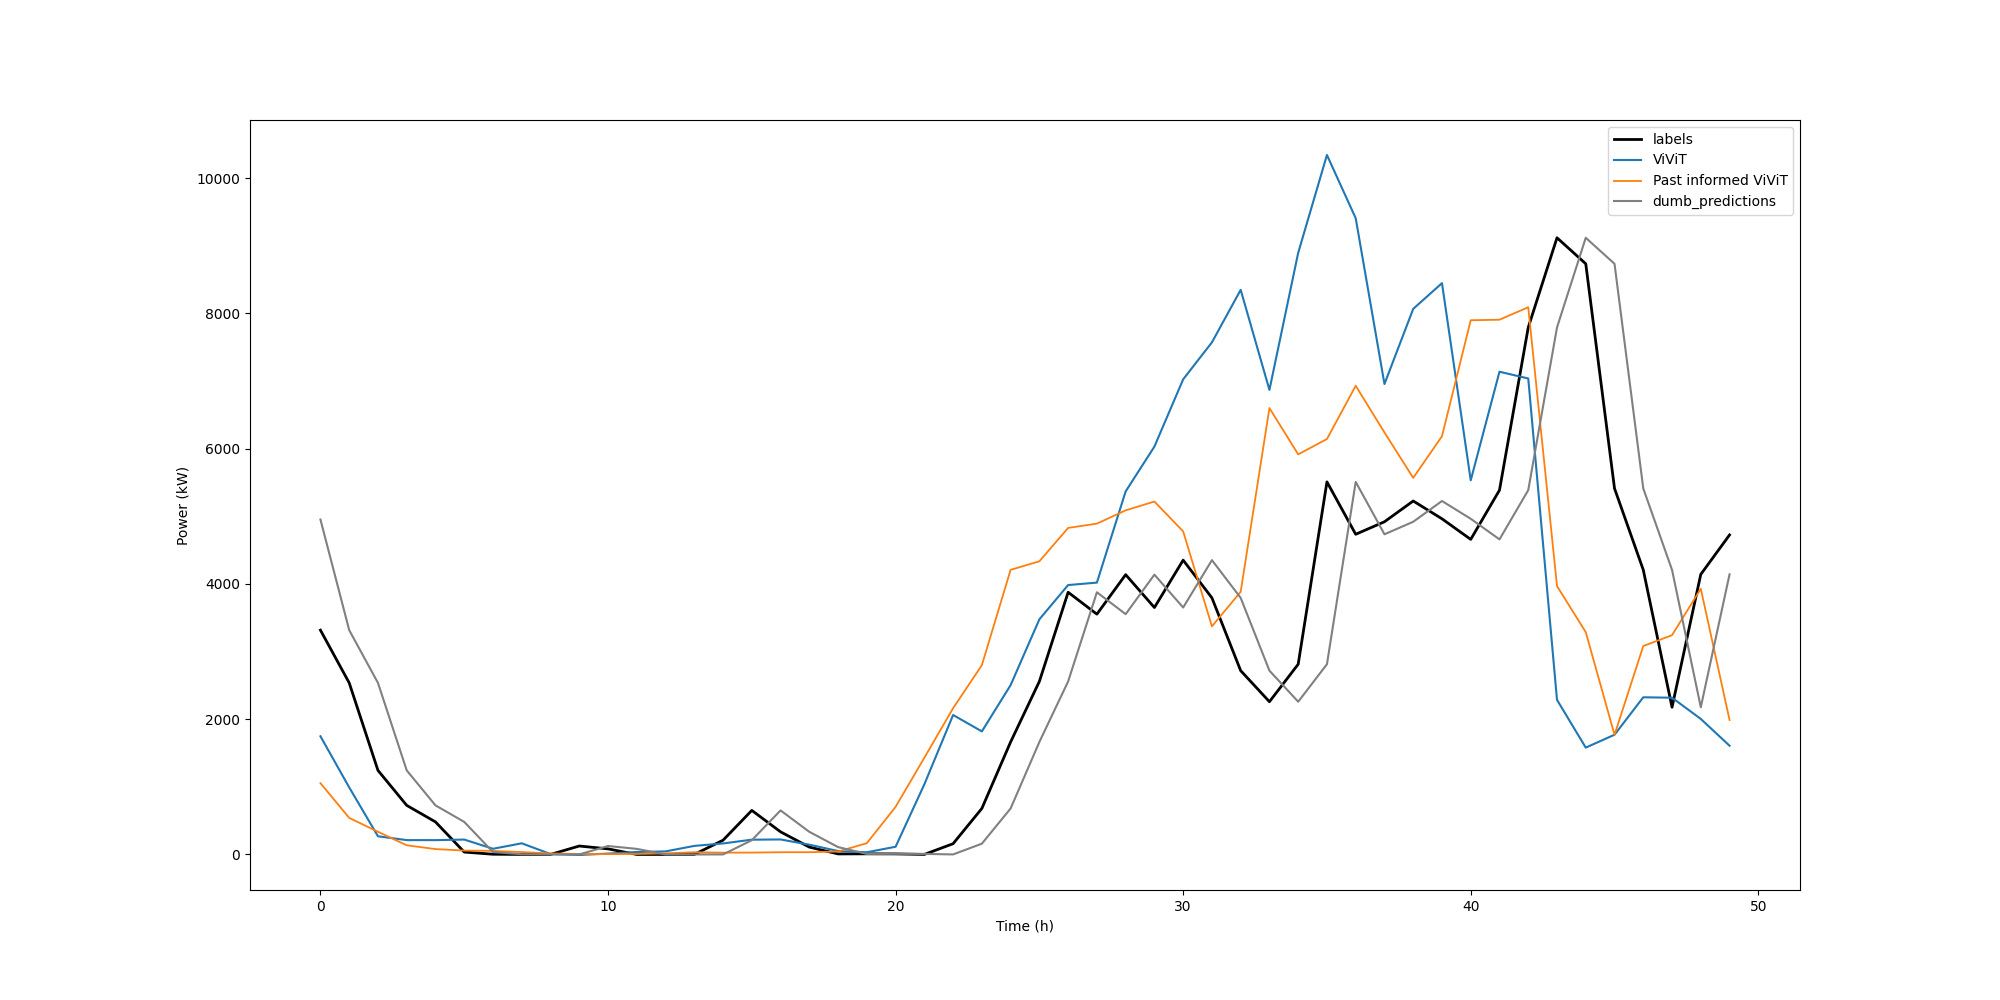
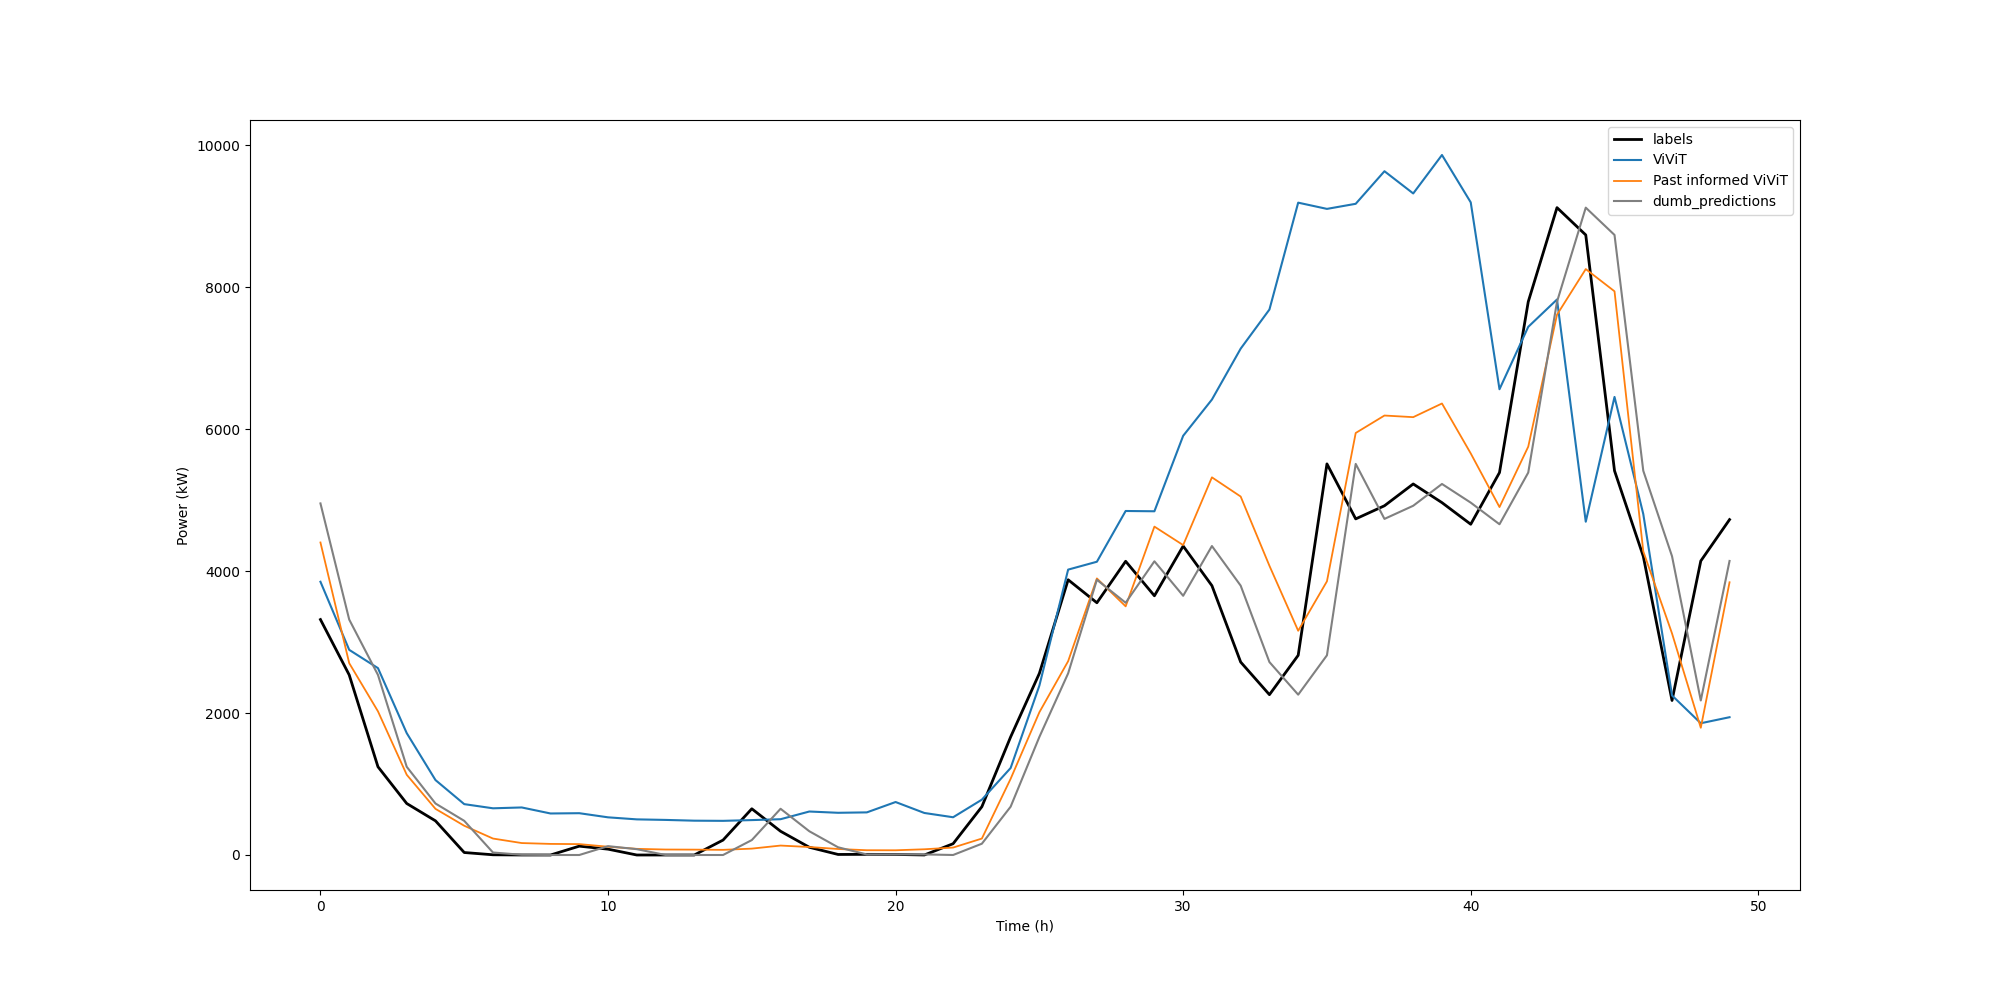
Video vision transformer

diff --git a/arena/video_vision_transformer/train_past_label_informed_vivit.py b/arena/video_vision_transformer/train_past_label_informed_vivit.py
@@ -30,15 +30,15 @@ NUM_FRAMES = 4 # look 4 hours to the past
 OVERLAP_SIZE = 3 #number of overlaping frames
 
 BATCH_SIZE = 64
-EPOCHS = 150
+EPOCHS = 100
 LEARNING_RATE = 0.0001
 
 IMAGE_SIZE = 9 
 PATCH_SIZE = 3
 CHANNELS = 8+1 # 8 channels + 1 previous label channel
 DIM = 64
-DEPTH = 2       # number of transformer blocks
-HEADS = 2
+DEPTH = 4       # number of transformer blocks
+HEADS = 4
 
 #_________________________DATA OF INTEREST_____________________________
 coordinates_of_interest = ['prediction date']
@@ -53,7 +53,7 @@ channels = ['10u', '10v', '2t', 'sp', '100u', '100v', 'vel10_', 'vel100']
 #______________DATA________________
 
 # ask the user if he wants to create the train and test sets or load them from disk
-answer = input('Do you want to create the IMAGE train and test sets? (y/n)')
+answer = input('Do you want to create the VIDEO train and test sets? (y/n)')
 
 if answer == 'y':
 
@@ -94,33 +94,16 @@ if answer == 'y':
     test_data[0, -1, :, :] = trainset[-1][1]
     testset = torch.utils.data.TensorDataset(test_data, test_labels)
 
-    # create the directory if it doesn't exist
-    if not os.path.exists('./past_informed_images'):
-        os.makedirs('./past_informed_images')
+    # add last NUM_FRAMES frames of the trainset to the beggining of the testset
+    test_data = torch.cat((data[-NUM_FRAMES+1:], test_data), dim=0)
+    test_labels = torch.cat((labels[-NUM_FRAMES+1:], test_labels), dim=0)
     
-    # save in disk
-    torch.save(trainset, './past_informed_images/trainset.pt')
-    torch.save(testset, './past_informed_images/testset.pt')
+    testset = torch.utils.data.TensorDataset(test_data, test_labels)
 
-else:
-    # load the train and test sets from disk
-    trainset = torch.load('./past_informed_images/trainset.pt')
-    testset = torch.load('./past_informed_images/testset.pt')
+    trainloader = DataLoader(trainset, batch_size=1, shuffle=False)
+    testloader = DataLoader(testset, batch_size=1, shuffle=False)
 
-print('Size of images trainset: {}'.format(len(trainset)))
-print('Size of images testset: {}'.format(len(testset)))
-print('')
-
-trainloader = DataLoader(trainset, batch_size=1, shuffle=False)
-testloader = DataLoader(testset, batch_size=1, shuffle=False)
-
-# OVERLAPPING VIDEO DATA
-# ask the user if he wants to create the train and test sets or load them from disk
-answer = input('Do you want to create the overlap VIDEO train and test sets? (y/n)')
-if answer == 'y':
-    
     video_trainset = utils.create_video_dataset(trainloader, NUM_FRAMES, OVERLAP_SIZE)
-    print('Size of video trainset: {}'.format(len(video_trainset)))
     video_testset = utils.create_video_dataset(testloader, NUM_FRAMES, OVERLAP_SIZE)
 
     # create the directory if it doesn't exist
@@ -131,17 +114,14 @@ if answer == 'y':
     torch.save(video_trainset, './past_informed_videos/video_trainset.pt')
     torch.save(video_testset, './past_informed_videos/video_testset.pt')
 
-else:
-    # load the train and test sets from disk
-    video_trainset = torch.load('./past_informed_videos/video_trainset.pt')
-    video_testset = torch.load('./past_informed_videos/video_testset.pt')
 
 video_trainloader = DataLoader(video_trainset, batch_size=BATCH_SIZE, shuffle=False)
-print('Len of video_trainloader:', len(video_trainloader))
 video_testloader = DataLoader(video_testset, batch_size=BATCH_SIZE, shuffle=False)
+
 
 #_________________________DEVICE_____________________________
 device = torch.device('cuda' if torch.cuda.is_available() else 'cpu')
+print('Using device:', device)
 
 #__________________________MODEL_____________________________
 model = overlap_vivit(image_size=IMAGE_SIZE, # according to the coordinates of interest 
@@ -288,7 +268,7 @@ if ans=='y':
 # option to save the model 
 ans = input('Do you want to save the model? (y/n)')
 if ans=='y':
-    torch.save(model, './models/past_label_informed_vivit_2enc2heads.pt')
+    torch.save(model, './models/past_label_informed_vivit.pt')
 
 
 

diff --git a/arena/vision_transformer/past_label_informed_vit.py b/arena/vision_transformer/past_label_informed_vit.py
@@ -34,8 +34,8 @@ IMAGE_SIZE = 9
 PATCH_SIZE = 3
 CHANNELS = 8+1  # 8 channels + 1 previous label channel
 DIM = 64
-DEPTH = 2       # number of transformer blocks
-HEADS = 2
+DEPTH = 4       # number of transformer blocks
+HEADS = 4
 MLP_DIM = 64    
 
 
@@ -97,22 +97,23 @@ if answer == 'y':
     testset = torch.utils.data.TensorDataset(test_data, test_labels)
 
     # create the directory if it doesn't exist
-    if not os.path.exists('./processed_data'):
-        os.makedirs('./processed_data')
+    if not os.path.exists('./past_informed_images'):
+        os.makedirs('./past_informed_images')
     
     # save in disk
-    torch.save(trainset, './processed_data/trainset.pt')
-    torch.save(testset, './processed_data/testset.pt')
+    torch.save(trainset, './past_informed_images/trainset.pt')
+    torch.save(testset, './past_informed_images/testset.pt')
 else:
     # read from disk
-    trainset = torch.load('./processed_data/trainset.pt')
-    testset = torch.load('./processed_data/testset.pt')
+    trainset = torch.load('./past_informed_images/trainset.pt')
+    testset = torch.load('./past_informed_images/testset.pt')
 
 trainloader = DataLoader(trainset, batch_size=BATCH_SIZE, shuffle=False)
 testloader = DataLoader(testset, batch_size=BATCH_SIZE, shuffle=False)
 
 
 device = torch.device('cuda' if torch.cuda.is_available() else 'cpu')
+print('Device:', device)
 
 
 # check that the data has been correctly created 
@@ -255,7 +256,7 @@ if ans=='y':
                 
         f.write('TRAINING PARAMETERS: \n')
         f.write(f'Batch size: {BATCH_SIZE} Learning rate: {LEARNING_RATE} Epochs: {EPOCHS} \n')
-        f.write('Trainable parameters:' ,parameters)
+        f.write(f'Trainable parameters:{parameters} \n ')
 
         f.write('HYPERPARAMETERS: \n')
         f.write(f'Lat and Lon {MAX_LAT},{MIN_LAT}; {MAX_LON},{MIN_LON} \n')
@@ -264,5 +265,11 @@ if ans=='y':
         f.write('EVALUATION RESULTS: \n')
         f.write(f'NMAE: {nmae:.4f} \n')
         f.write(f'NMSE: {nmse:.4f} \n')
+
+
+# option to save the model 
+ans = input('Do you want to save the model? (y/n)')
+if ans=='y':
+    torch.save(model, './models/past_label_informed_vit.pt')
 
 

diff --git a/arena/video_vision_transformer/train_vivit.py b/arena/video_vision_transformer/train_vivit.py
@@ -30,15 +30,15 @@ NUM_FRAMES = 4 # number of frames in the video
 OVERLAP_SIZE = 3 #number of overlaping frames
 
 BATCH_SIZE = 64
-EPOCHS = 150
+EPOCHS = 50
 LEARNING_RATE = 0.0003
 
 IMAGE_SIZE = 9 
 PATCH_SIZE = 3
 CHANNELS = 8
 DIM = 64
-DEPTH = 8       # number of transformer blocks
-HEADS = 8
+DEPTH = 2       # number of transformer blocks
+HEADS = 2
 
 #_________________________DATA OF INTEREST_____________________________
 coordinates_of_interest = ['prediction date']
@@ -129,6 +129,7 @@ print('')
 
 #_________________________DEVICE_____________________________
 device = torch.device('cuda' if torch.cuda.is_available() else 'cpu')
+print('Device:', device)
 
 #__________________________MODEL_____________________________
 model = overlap_vivit(image_size=IMAGE_SIZE, # according to the coordinates of interest 

diff --git a/arena/video_vision_transformer/compare_predictions.py b/arena/video_vision_transformer/compare_predictions.py
@@ -19,9 +19,9 @@ device = torch.device("cuda" if torch.cuda.is_available() else "cpu")
 print('Using device:', device)
 
 #load model 
-model1 = torch.load('./models/vivit2enc2heads.pt')
+model1 = torch.load('./models/vivit.pt')
 
-testset = torch.load('./processed_data/video_testset.pt')
+testset = torch.load('./videos/video_testset.pt')
 testloader = DataLoader(testset, batch_size=1, shuffle=False)
 
 with torch.no_grad():
@@ -34,7 +34,7 @@ with torch.no_grad():
         predictions1.append(output.item()*INSTALLED_POWER)
 
 #load model
-model2 = torch.load('./models/past_label_informed_vivit_2enc2heads.pt')
+model2 = torch.load('./models/past_label_informed_vivit.pt')
 
 testset = torch.load('./past_informed_videos/video_testset.pt')
 testloader = DataLoader(testset, batch_size=1, shuffle=False)

diff --git a/arena/vision_transformer/train_vit.py b/arena/vision_transformer/train_vit.py
@@ -111,6 +111,7 @@ testloader = DataLoader(testset, batch_size=BATCH_SIZE, shuffle=False)
 
 
 device = torch.device('cuda' if torch.cuda.is_available() else 'cpu')
+print('Using device:', device)
 
 #__________________________MODEL_____________________________
 model = ViT(image_size=IMAGE_SIZE, # according to the coordinates of interest 

diff --git a/README.md b/README.md
@@ -4,7 +4,7 @@ Add normalization info to report
 CROSS VALIDATION 
 grid search para transofrmer depth & heads 
 
-AÑADIR A TEST LAS ULTIMAS 8 HORAS DEL AÑO ANTERIOR (en video)
+AÑADIR A TEST LAS ULTIMAS NUM_FRAMES HORAS DEL AÑO ANTERIOR (en video)
 Comprobar dimensiones de las predicciones
 
 - Get all datasets 
@@ -27,6 +27,15 @@ Past label informed ViViT 2 encoders 2 heads: MAE 0.0403  GREAT!!!
 
 Hechos: 
 
+Cambiar la estructura de los datasets creados:
+    Imágenes
+    Videos
+    Imágenes con power anteriores 
+    Videos con power anteriores (en cada frame)
+Crear datasets de test con la última imagen de train
+Creat datasets de video test con los útlimos NUM_FRAMES de train 
+Entrenar de forma más agresiva (haciendo "trampas") --> conseguido 0.02 NMAE !!!! 
+Guardar modelos en formato .pt para poder compararlos entre ellos. 
 Visualize data (time series and spatial) hecho! 
 Visualize predictions (time series) hecho! 
 COMPROBAR MAE DE TARGET VS TARGET DESPLAZADA hecho! 
